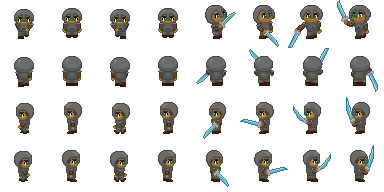
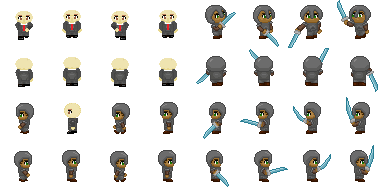
new image of main character and finished working module of choosing difficult level of game

diff --git a/zombie_game.py b/zombie_game.py
@@ -189,35 +189,40 @@ class TheGame:
                             pass
 
     def game_choosing_difficulty(self):
-        intro = True
         i = 0.16
-        while intro:
-            up_limit = i
-            down_limit = i + 3 * 20
+        while True:
             mark_pos_y = TheGame.game_height * i
             mark_pos_x = TheGame.game_width * 0.25
             intro_object = Player(mark_pos_x, mark_pos_y, 40, 40)
             intro_object.animation("images/menu_head.png", (0, 0), (0, 0, mark_pos_x, mark_pos_y), False)
             self.board.draw_choosing_difficulty(intro_object)
-
+            print(mark_pos_y)
             for event in pygame.event.get():
                 if event.type == pygame.QUIT:
                     pygame.quit()
                 elif event.type == pygame.KEYDOWN:
-                    print(i)
                     if event.key == pygame.K_ESCAPE or event.key == pygame.K_BACKSPACE:
                         game.game_intro()
 
                     if event.key == pygame.K_UP or event.key == pygame.K_w:
-                        if i > up_limit:
+                        if mark_pos_y > 97:
                             i -= 0.2
 
                     if event.key == pygame.K_DOWN or event.key == pygame.K_s:
-                        if i < down_limit:
+                        if mark_pos_y < 455:
                             i += 0.2
 
                     if event.key == pygame.K_SPACE or event.key == pygame.K_RETURN:
-                        return i
+                        if 95 < mark_pos_y < 97:
+                            difficulty = "easy"
+                        elif 215 < mark_pos_y < 217:
+                            difficulty = "normal"
+                        elif 335 < mark_pos_y < 337:
+                            difficulty = "hard"
+                        else:
+                            difficulty = "hell"
+
+                        game.run(difficulty)
 
     def game_over(self):
         while True:
@@ -229,8 +234,20 @@ class TheGame:
                     if event.key == pygame.K_SPACE or event.key == pygame.K_RETURN:
                         return False
 
-    def run(self):
+    def run(self, difficulty):
         max_distance = 170
+        if difficulty == "easy":
+            zombie_speed = 1
+            zombie_attack = 1
+        elif difficulty == "normal":
+            zombie_speed = 1.2
+            zombie_attack = 2
+        elif difficulty == "hard":
+            zombie_speed = 1.5
+            zombie_attack = 3
+        else:
+            zombie_speed = 1.7
+            zombie_attack = 4
         while True:
             dead = False
             self.handle_events()
@@ -242,9 +259,9 @@ class TheGame:
                 if distance > max_distance:
                     self.zombie_person.zombie_natural_moves()
                 elif distance <= max_distance and not pygame.sprite.collide_rect(self.zombie_person, self.player):
-                    self.zombie_person.zombie_follows()
+                    self.zombie_person.zombie_follows(zombie_speed, zombie_speed)
                 else:
-                    self.zombie_person.zombie_attacks()
+                    self.zombie_person.zombie_attacks(zombie_attack)
                 for bullet in self.bullets:
                     if pygame.sprite.collide_rect(self.zombie_person, bullet):
                         self.zombie_person.kill()
@@ -253,17 +270,17 @@ class TheGame:
                     if other_zombie != self.zombie_person and \
                             pygame.sprite.collide_rect(self.zombie_person, other_zombie):
                         if other_zombie.rect.x > self.zombie_person.rect.x:
-                            other_zombie.move_x(-self.zombie_person.max_speed, TheGame.game_width)
-                            self.zombie_person.move_x(self.zombie_person.max_speed, TheGame.game_width)
+                            other_zombie.move_x(- zombie_speed, TheGame.game_width, zombie_speed)
+                            self.zombie_person.move_x(zombie_speed, TheGame.game_width, zombie_speed)
                         else:
-                            other_zombie.move_x(self.zombie_person.max_speed, TheGame.game_width)
-                            self.zombie_person.move_x(-self.zombie_person.max_speed, TheGame.game_width)
+                            other_zombie.move_x(zombie_speed, TheGame.game_width, zombie_speed)
+                            self.zombie_person.move_x(- zombie_speed, TheGame.game_width, zombie_speed)
                         if other_zombie.rect.y > self.zombie_person.rect.y:
-                            other_zombie.move_y(-self.zombie_person.max_speed, TheGame.game_height)
-                            self.zombie_person.move_y(self.zombie_person.max_speed, TheGame.game_height)
+                            other_zombie.move_y(- zombie_speed, TheGame.game_height, zombie_speed)
+                            self.zombie_person.move_y(zombie_speed, TheGame.game_height, zombie_speed)
                         else:
-                            other_zombie.move_y(self.zombie_person.max_speed, TheGame.game_height)
-                            self.zombie_person.move_y(-self.zombie_person.max_speed, TheGame.game_height)
+                            other_zombie.move_y(zombie_speed, TheGame.game_height, zombie_speed)
+                            self.zombie_person.move_y(- zombie_speed, TheGame.game_height, zombie_speed)
 
             self.board.draw(self.room)
             self.player.animation("images/character.png", (0, 0), (14, 9, 33, 39))
@@ -297,22 +314,22 @@ class TheGame:
                     return True
 
                 if event.key == pygame.K_LEFT or event.key == pygame.K_a:
-                    self.player.move_x(self.player.max_speed, TheGame.game_width)
+                    self.player.move_x(self.player.max_speed, TheGame.game_width, self.player.max_speed)
                     self.set_angle = 90
                     self.turn_to_shoot = "left"
 
                 if event.key == pygame.K_RIGHT or event.key == pygame.K_d:
-                    self.player.move_x(-self.player.max_speed, TheGame.game_width)
+                    self.player.move_x(-self.player.max_speed, TheGame.game_width, self.player.max_speed)
                     self.set_angle = 270
                     self.turn_to_shoot = "right"
 
                 if event.key == pygame.K_UP or event.key == pygame.K_w:
-                    self.player.move_y(self.player.max_speed, TheGame.game_height)
+                    self.player.move_y(self.player.max_speed, TheGame.game_height, self.player.max_speed)
                     self.set_angle = 0
                     self.turn_to_shoot = "up"
 
                 if event.key == pygame.K_DOWN or event.key == pygame.K_s:
-                    self.player.move_y(-self.player.max_speed, TheGame.game_height)
+                    self.player.move_y(-self.player.max_speed, TheGame.game_height, self.player.max_speed)
                     self.set_angle = 180
                     self.turn_to_shoot = "down"
 

diff --git a/player.py b/player.py
@@ -27,22 +27,22 @@ class Player(Drawable, pygame.sprite.Sprite):
             self.picture = pygame.transform.scale(self.picture, (self.width, self.height))
             self.surface.blit(self.picture, blit_destination, (0, 0, self.width, self.height))
 
-    def move_x(self, x, x_limit):
-        if x != 0:
-            delta_x = x - self.rect.x
+    def move_x(self, dx, x_limit, speed):
+        if dx != 0:
+            delta_x = dx - self.rect.x
             if abs(delta_x) <= x_limit - self.width / 2 and delta_x <= 0:
-                delta_x = -self.max_speed
-                if x > 0:
+                delta_x = - speed
+                if dx > 0:
                     self.rect.x += delta_x
                 else:
                     self.rect.x -= delta_x
 
-    def move_y(self, y, y_limit):
-        if y != 0:
-            delta_y = y - self.rect.y
+    def move_y(self, dy, y_limit, speed):
+        if dy != 0:
+            delta_y = dy - self.rect.y
             if abs(delta_y) <= y_limit - self.height and delta_y <= 0:
-                delta_y = -self.max_speed
-                if y > 0:
+                delta_y = - speed
+                if dy > 0:
                     self.rect.y += delta_y
                 else:
                     self.rect.y -= delta_y

diff --git a/zombie.py b/zombie.py
@@ -19,21 +19,21 @@ class Zombie(Player, pygame.sprite.Sprite):
     def zombie_natural_moves(self):
         moves_list = [0, 0, 0, 0, 1, 0, 0, 0, -1, 0, 0, 0, 0, 0]
         a = randint(0, len(moves_list) - 1)
-        self.move_x(moves_list[a], self.x_limit)
+        self.move_x(moves_list[a], self.x_limit, 1)
         a = randint(0, len(moves_list) - 1)
-        self.move_y(moves_list[a], self.y_limit)
+        self.move_y(moves_list[a], self.y_limit, 1)
 
-    def zombie_follows(self):
+    def zombie_follows(self, distance, speed):
         if self.rect.x > self.victim.rect.x:
-            x = self.max_speed
+            x = distance
         else:
-            x = -self.max_speed
-        self.move_x(x, self.x_limit)
+            x = - distance
+        self.move_x(x, self.x_limit, speed)
         if self.rect.y > self.victim.rect.y:
-            y = self.max_speed
+            y = distance
         else:
-            y = -self.max_speed
-        self.move_y(y, self.y_limit)
+            y = - distance
+        self.move_y(y, self.y_limit, speed)
 
-    def zombie_attacks(self):
+    def zombie_attacks(self, attack):
         pass
